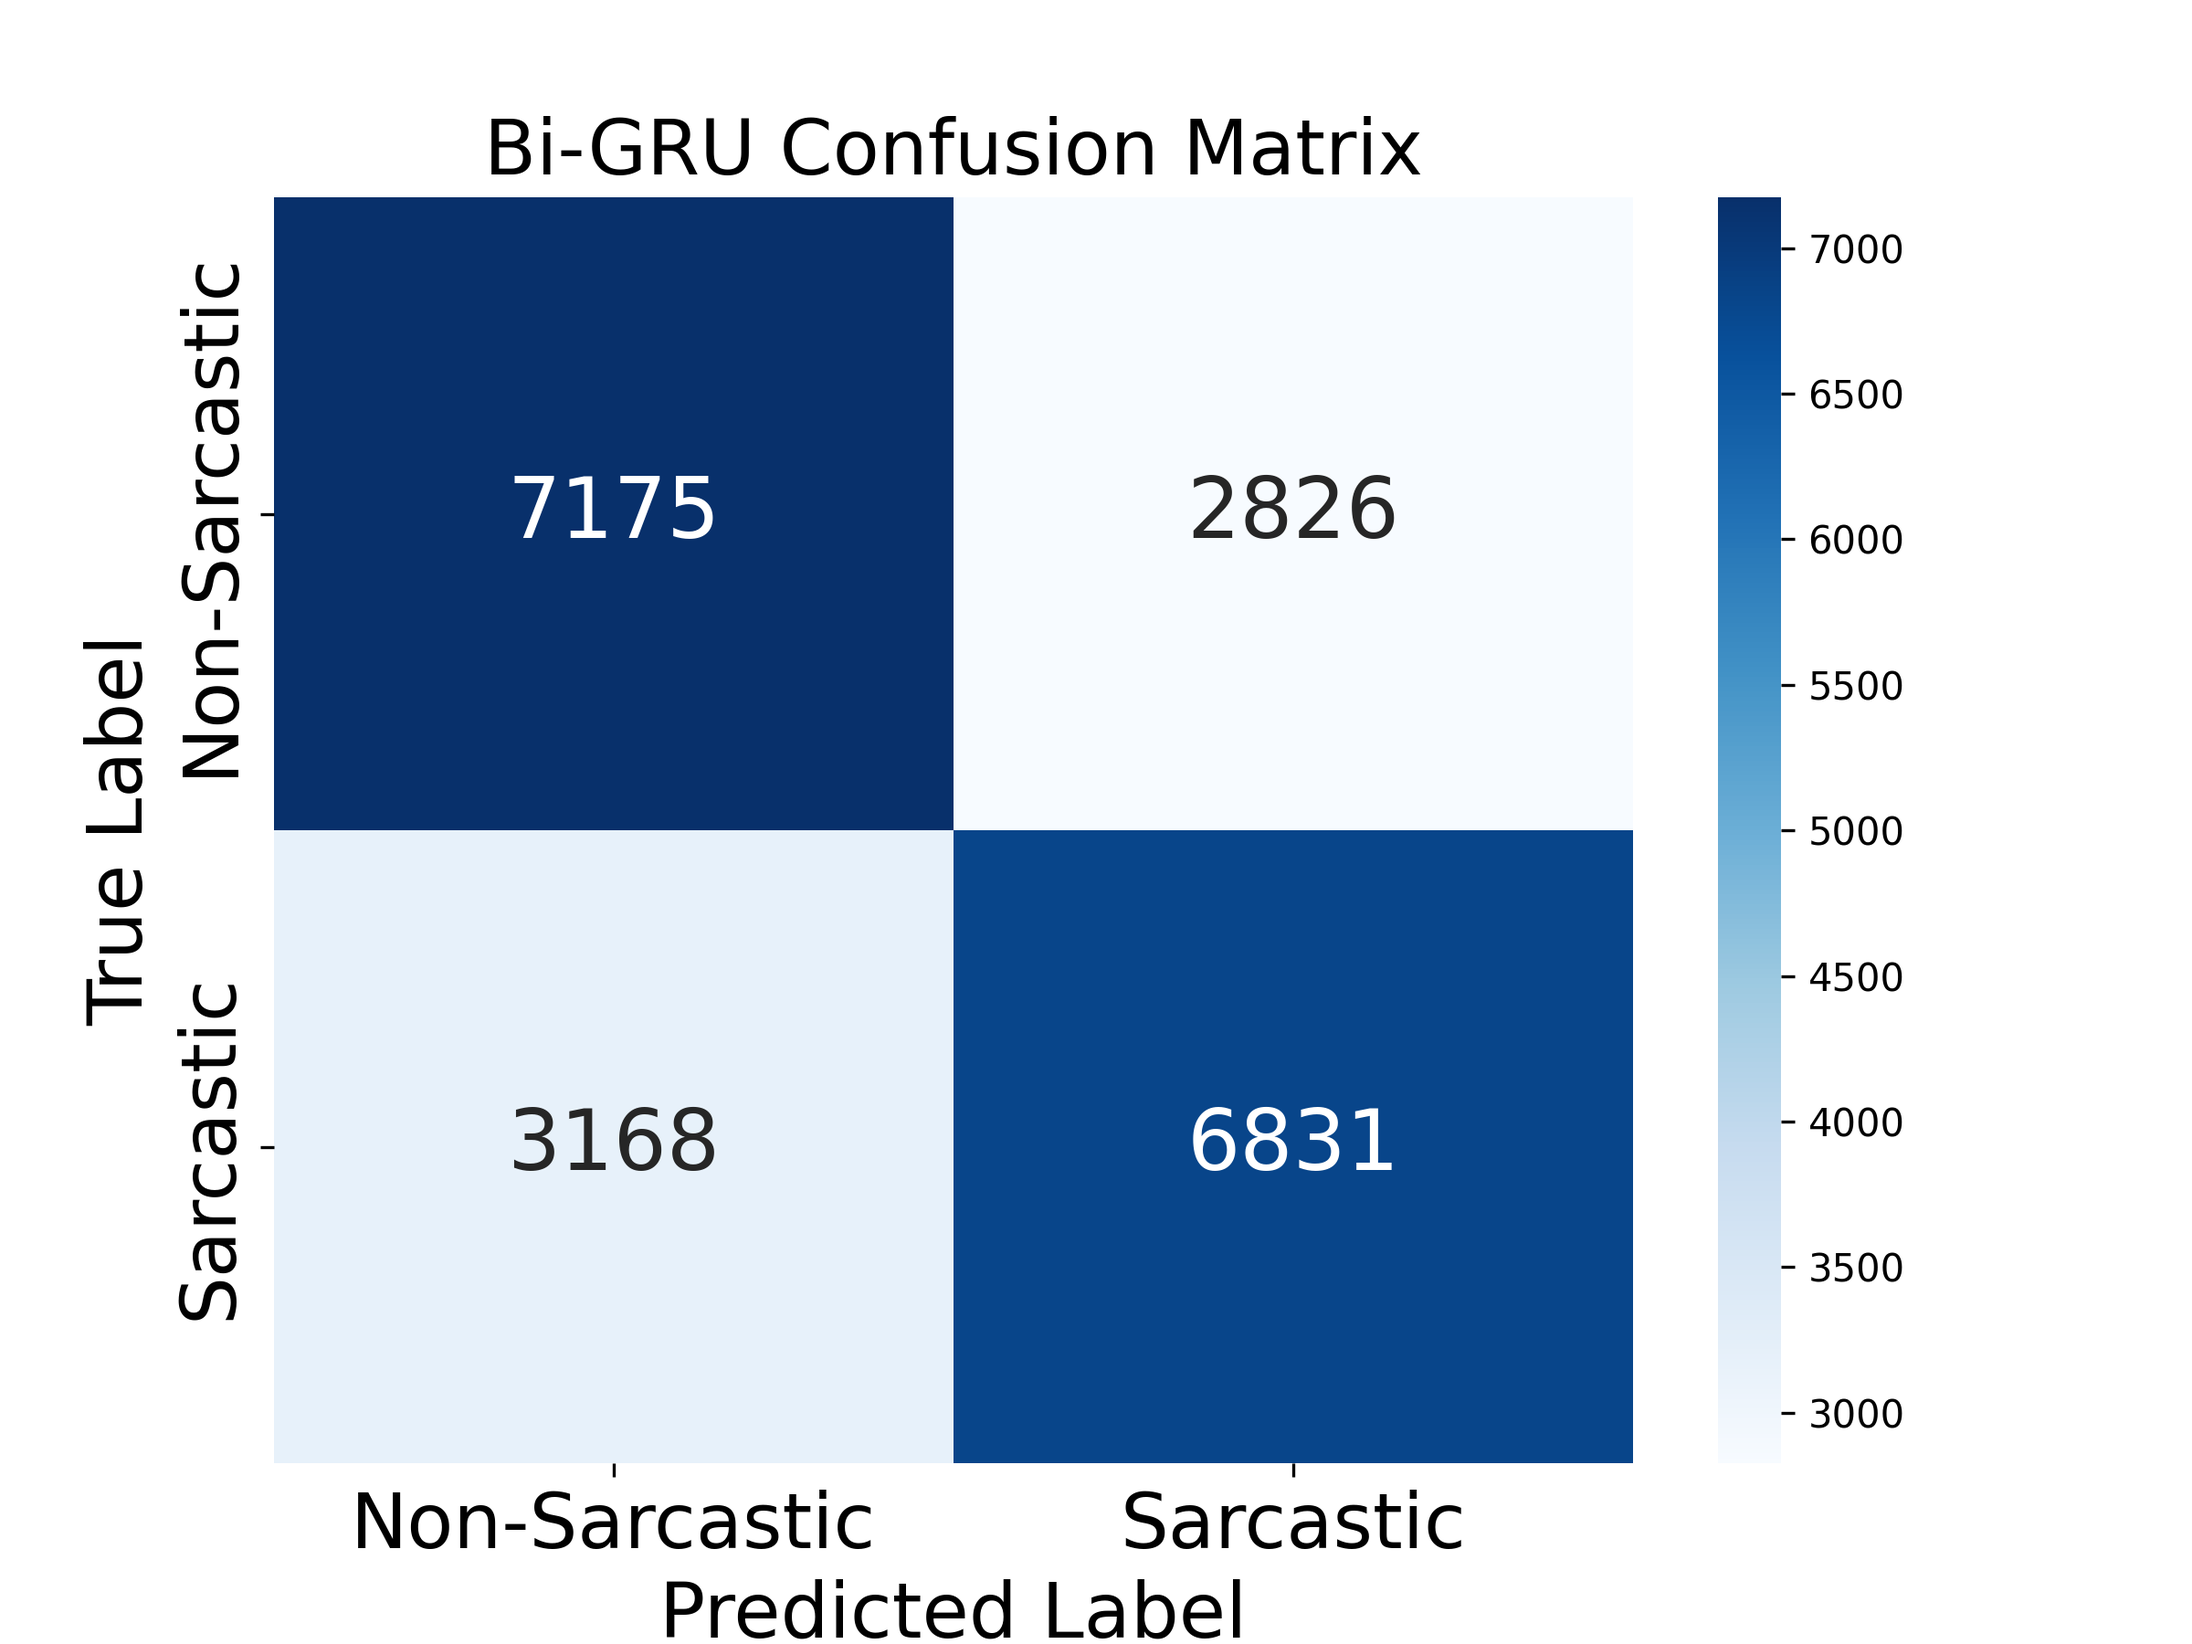
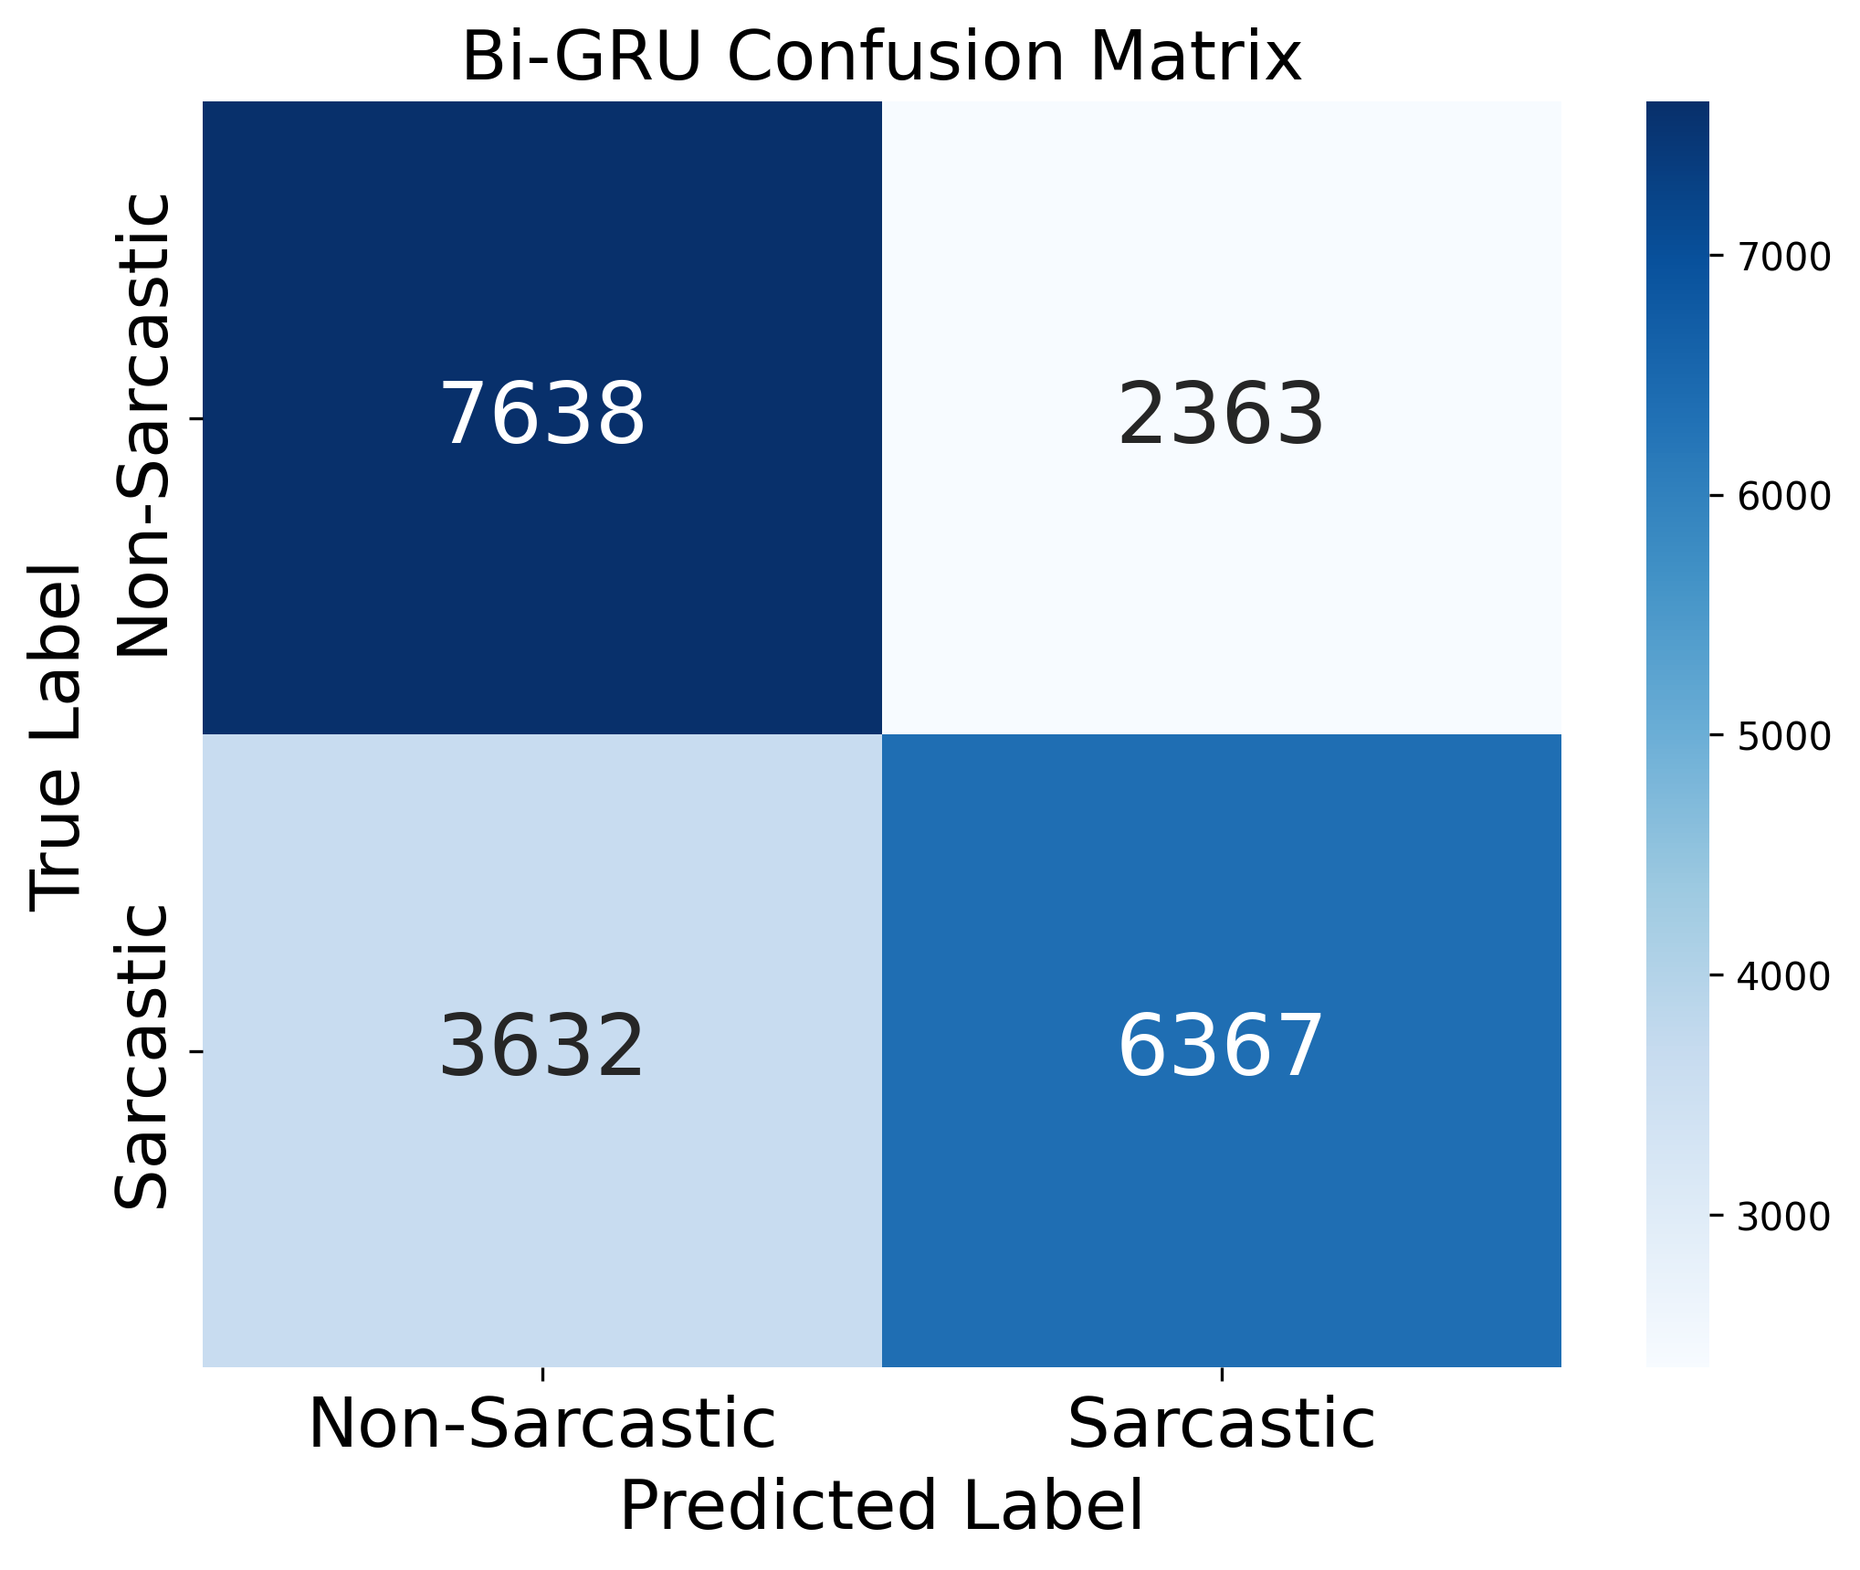
Fixed Visuals

diff --git a/Bi-GRU/Bi-GRU.py b/Bi-GRU/Bi-GRU.py
@@ -162,12 +162,12 @@ sns.heatmap(cm, annot=True, fmt='d', cmap='Blues',
             xticklabels=['Non-Sarcastic', 'Sarcastic'],
             yticklabels=['Non-Sarcastic', 'Sarcastic'],
             annot_kws={"size": 22})
-plt.title('Bi-GRU Confusion Matrix', fontsize=20)
-plt.ylabel('True Label', fontsize=20)
-plt.xlabel('Predicted Label', fontsize=20)
-plt.xticks(fontsize=20)
-plt.yticks(fontsize=20)
-plt.savefig(os.path.join(OUTPUT_DIR, 'Confusion_matrix.png'), dpi=300)
+plt.title('Bi-GRU Confusion Matrix', fontsize=18)
+plt.ylabel('True Label', fontsize=18)
+plt.xlabel('Predicted Label', fontsize=18)
+plt.xticks(fontsize=18)
+plt.yticks(fontsize=18)
+plt.savefig(os.path.join(OUTPUT_DIR, 'Confusion_matrix.png'), dpi=300, bbox_inches='tight')
 plt.close()
 
 print(f"\nAll outputs saved to: {os.path.abspath(OUTPUT_DIR)}")
